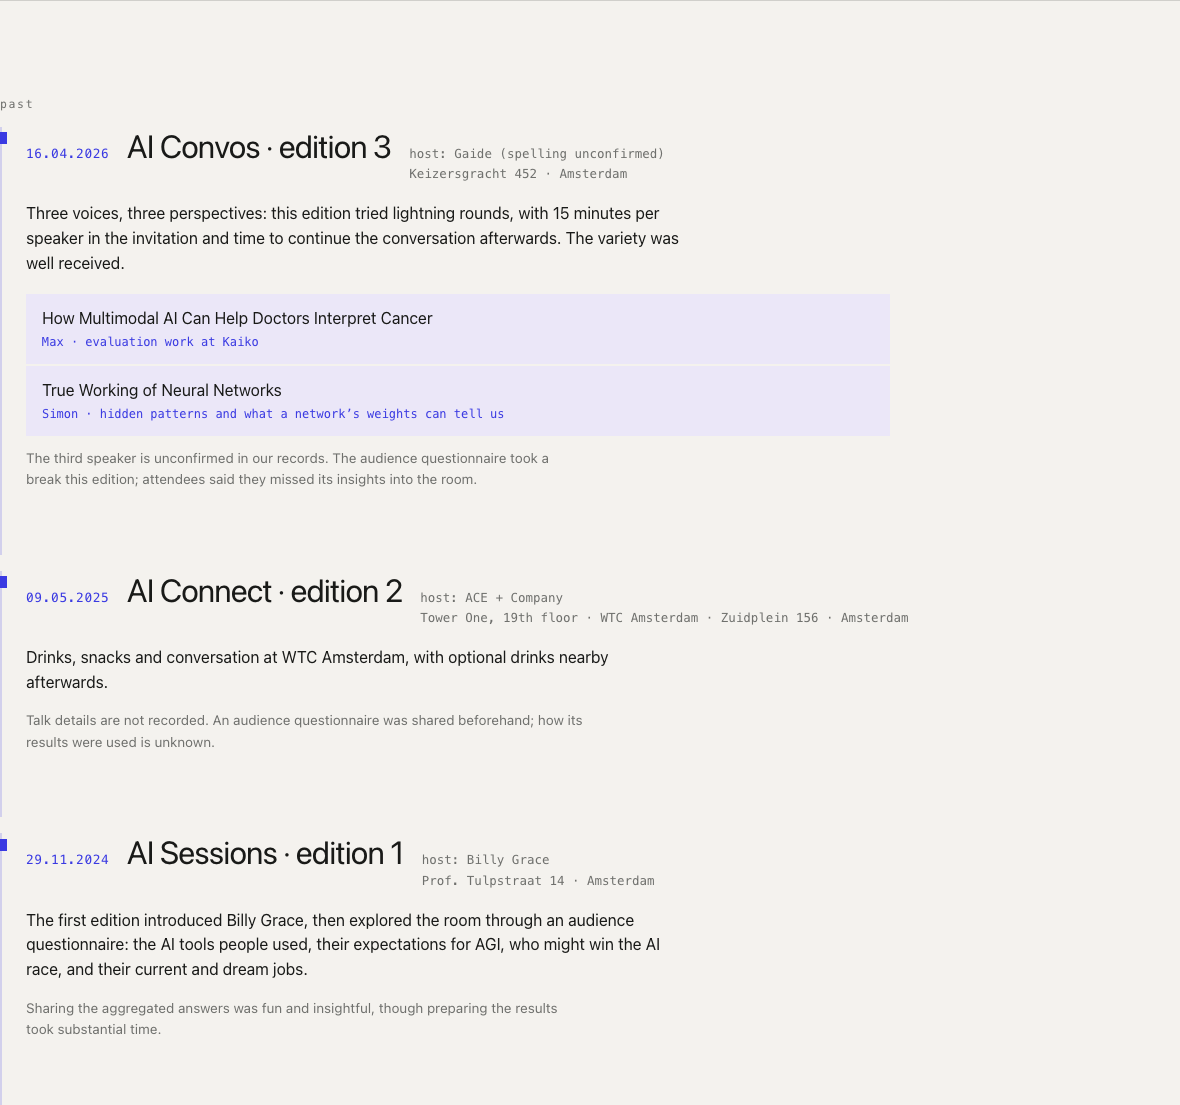
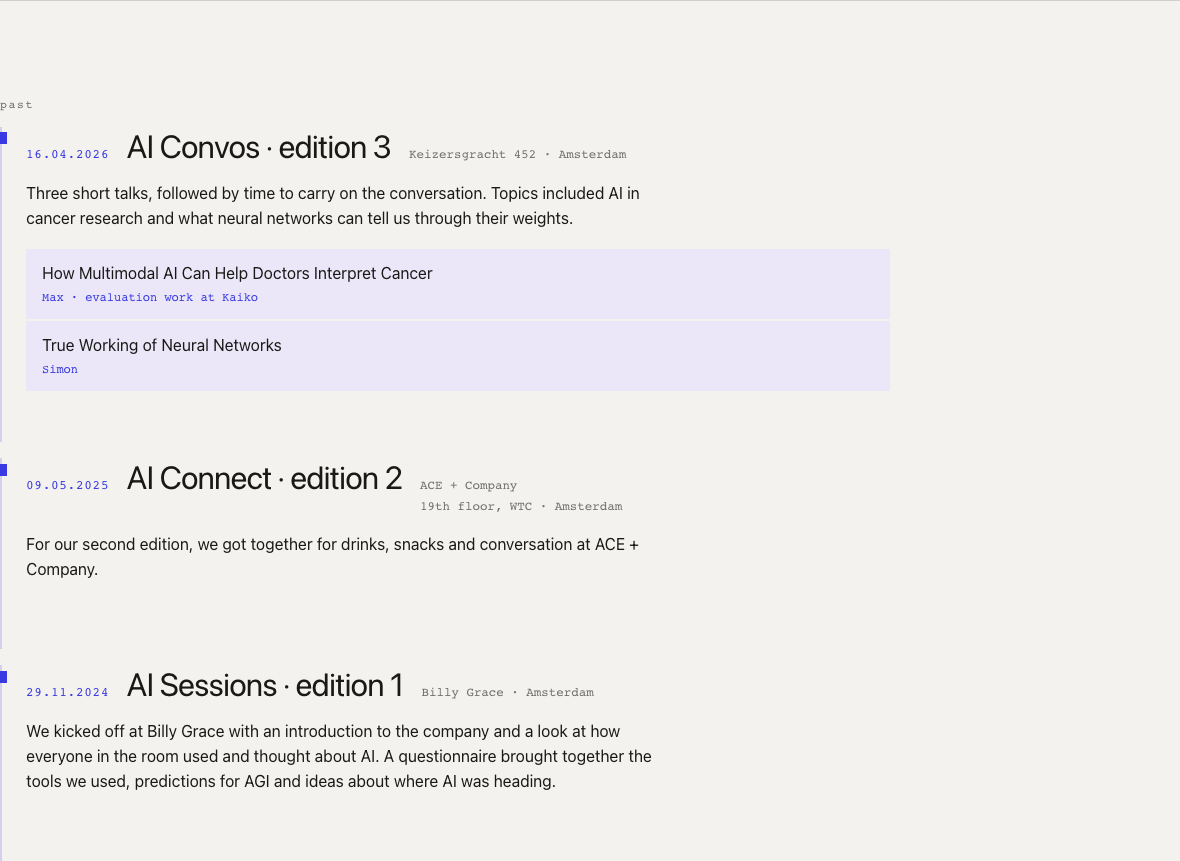
Rewrite past edition summaries for website visitors

diff --git a/index.html b/index.html
@@ -176,7 +176,6 @@
     .past-date { color: var(--accent); font-family: var(--mono); font-size: 0.8rem; letter-spacing: 0.05em; }
     .past-title { font-size: clamp(1.35rem, 3vw, 2rem); letter-spacing: -0.025em; }
     .past-summary { max-width: 65ch; margin-top: 1rem; line-height: 1.55; }
-    .past-note { max-width: 65ch; margin-top: 0.75rem; color: var(--muted); font-size: 0.85rem; line-height: 1.55; }
     .talks { display: grid; gap: 2px; max-width: 54rem; margin-top: 1.15rem; }
     .talk { padding: 0.9rem 1rem; background: rgba(232, 228, 251, 0.78); }
     .talk-title { line-height: 1.35; }
@@ -275,38 +274,35 @@
         <div class="past-heading">
           <time class="past-date" datetime="2026-04-16">16.04.2026</time>
           <div class="past-title">AI Convos · edition 3</div>
-          <div class="past-meta">host: Gaide (spelling unconfirmed)<br>Keizersgracht 452 · Amsterdam</div>
+          <div class="past-meta">Keizersgracht 452 · Amsterdam</div>
         </div>
-        <p class="past-summary">Three voices, three perspectives: this edition tried lightning rounds, with 15 minutes per speaker in the invitation and time to continue the conversation afterwards. The variety was well received.</p>
-        <div class="talks" aria-label="Documented talks at edition 3">
+        <p class="past-summary">Three short talks, followed by time to carry on the conversation. Topics included AI in cancer research and what neural networks can tell us through their weights.</p>
+        <div class="talks" aria-label="Talks included at edition 3">
           <div class="talk">
             <div class="talk-title">How Multimodal AI Can Help Doctors Interpret Cancer</div>
             <div class="talk-speaker">Max · evaluation work at Kaiko</div>
           </div>
           <div class="talk">
             <div class="talk-title">True Working of Neural Networks</div>
-            <div class="talk-speaker">Simon · hidden patterns and what a network’s weights can tell us</div>
+            <div class="talk-speaker">Simon</div>
           </div>
         </div>
-        <p class="past-note">The third speaker is unconfirmed in our records. The audience questionnaire took a break this edition; attendees said they missed its insights into the room.</p>
       </article>
       <article class="past-event">
         <div class="past-heading">
           <time class="past-date" datetime="2025-05-09">09.05.2025</time>
           <div class="past-title">AI Connect · edition 2</div>
-          <div class="past-meta">host: ACE + Company<br>Tower One, 19th floor · WTC Amsterdam · Zuidplein 156 · Amsterdam</div>
+          <div class="past-meta">ACE + Company<br>19th floor, WTC · Amsterdam</div>
         </div>
-        <p class="past-summary">Drinks, snacks and conversation at WTC Amsterdam, with optional drinks nearby afterwards.</p>
-        <p class="past-note">Talk details are not recorded. An audience questionnaire was shared beforehand; how its results were used is unknown.</p>
+        <p class="past-summary">For our second edition, we got together for drinks, snacks and conversation at ACE + Company.</p>
       </article>
       <article class="past-event">
         <div class="past-heading">
           <time class="past-date" datetime="2024-11-29">29.11.2024</time>
           <div class="past-title">AI Sessions · edition 1</div>
-          <div class="past-meta">host: Billy Grace<br>Prof. Tulpstraat 14 · Amsterdam</div>
+          <div class="past-meta">Billy Grace · Amsterdam</div>
         </div>
-        <p class="past-summary">The first edition introduced Billy Grace, then explored the room through an audience questionnaire: the AI tools people used, their expectations for AGI, who might win the AI race, and their current and dream jobs.</p>
-        <p class="past-note">Sharing the aggregated answers was fun and insightful, though preparing the results took substantial time.</p>
+        <p class="past-summary">We kicked off at Billy Grace with an introduction to the company and a look at how everyone in the room used and thought about AI. A questionnaire brought together the tools we used, predictions for AGI and ideas about where AI was heading.</p>
       </article>
     </section>
 

diff --git a/AGENTS.md b/AGENTS.md
@@ -35,3 +35,10 @@ AI Convos is an Amsterdam meetup series for people who work deeply with AI. The 
 ## Pull request screenshots
 
 - Always include one or more screenshots of website changes in the pull request description. Capture the affected sections with a background browser and embed the images so reviewers can see the result directly.
+
+## Public event copy
+
+- Edition files are internal source material, not website-ready copy. Write concise, conversational, matter-of-fact accounts of what guests did or discussed.
+- Keep organizer retrospectives, preparation effort, record gaps, and source conflicts in the internal notes. Omit uncertain public claims rather than publishing editorial caveats; surface questions to the organizer when needed.
+- Keep past-edition locations compact. Use the host or venue and city; include useful context such as the WTC’s 19th floor instead of a full postal address.
+- Use a consistent date, title, location, and brief description for each edition. Add talk details where known without inventing matching content for editions with less information.
